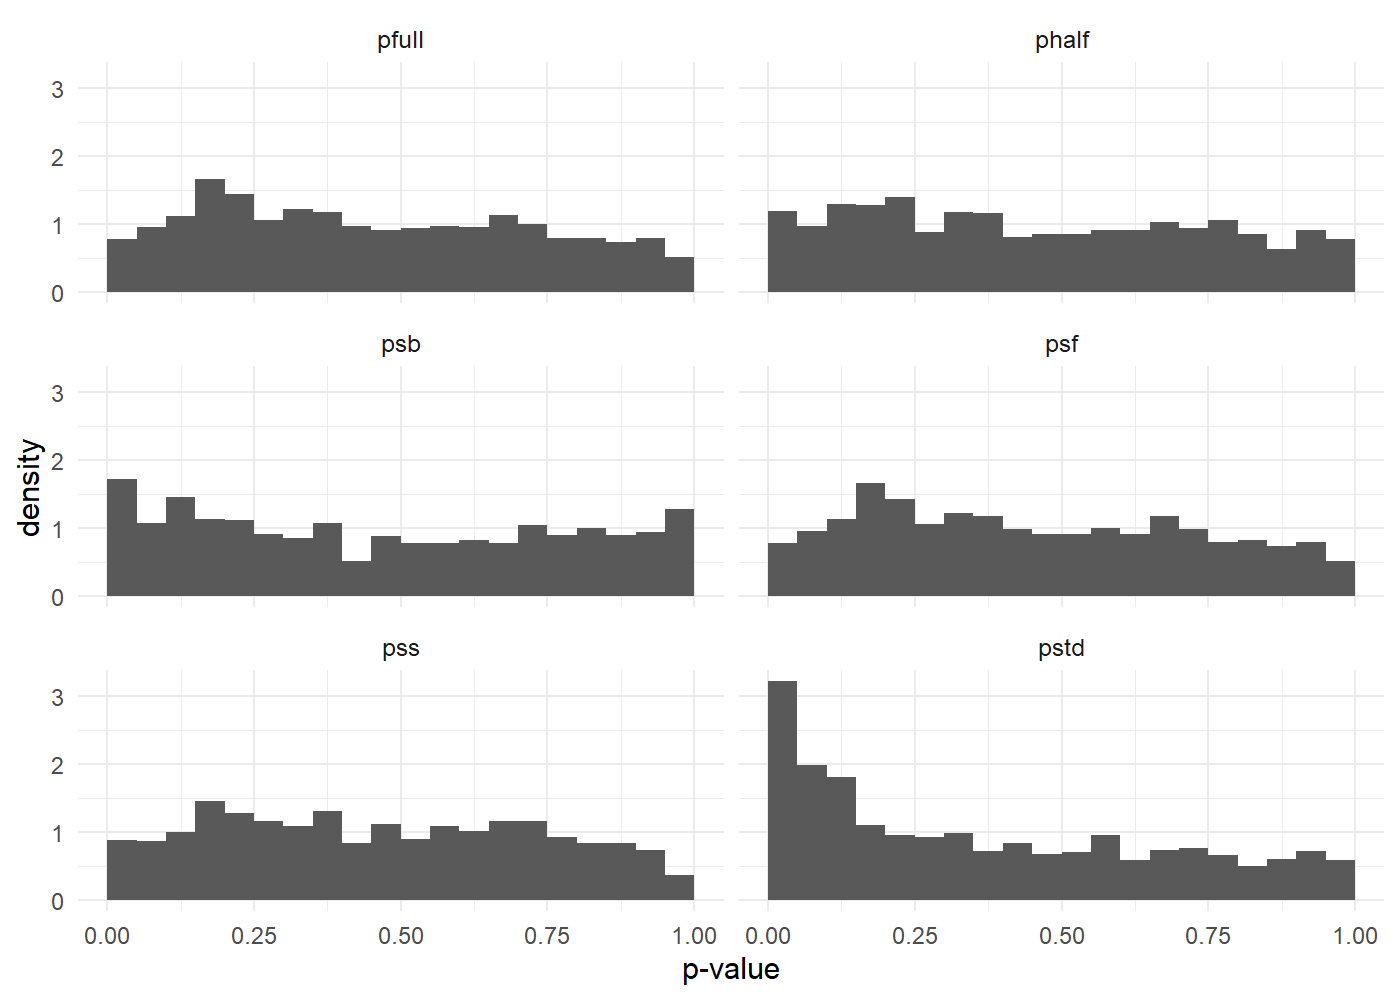
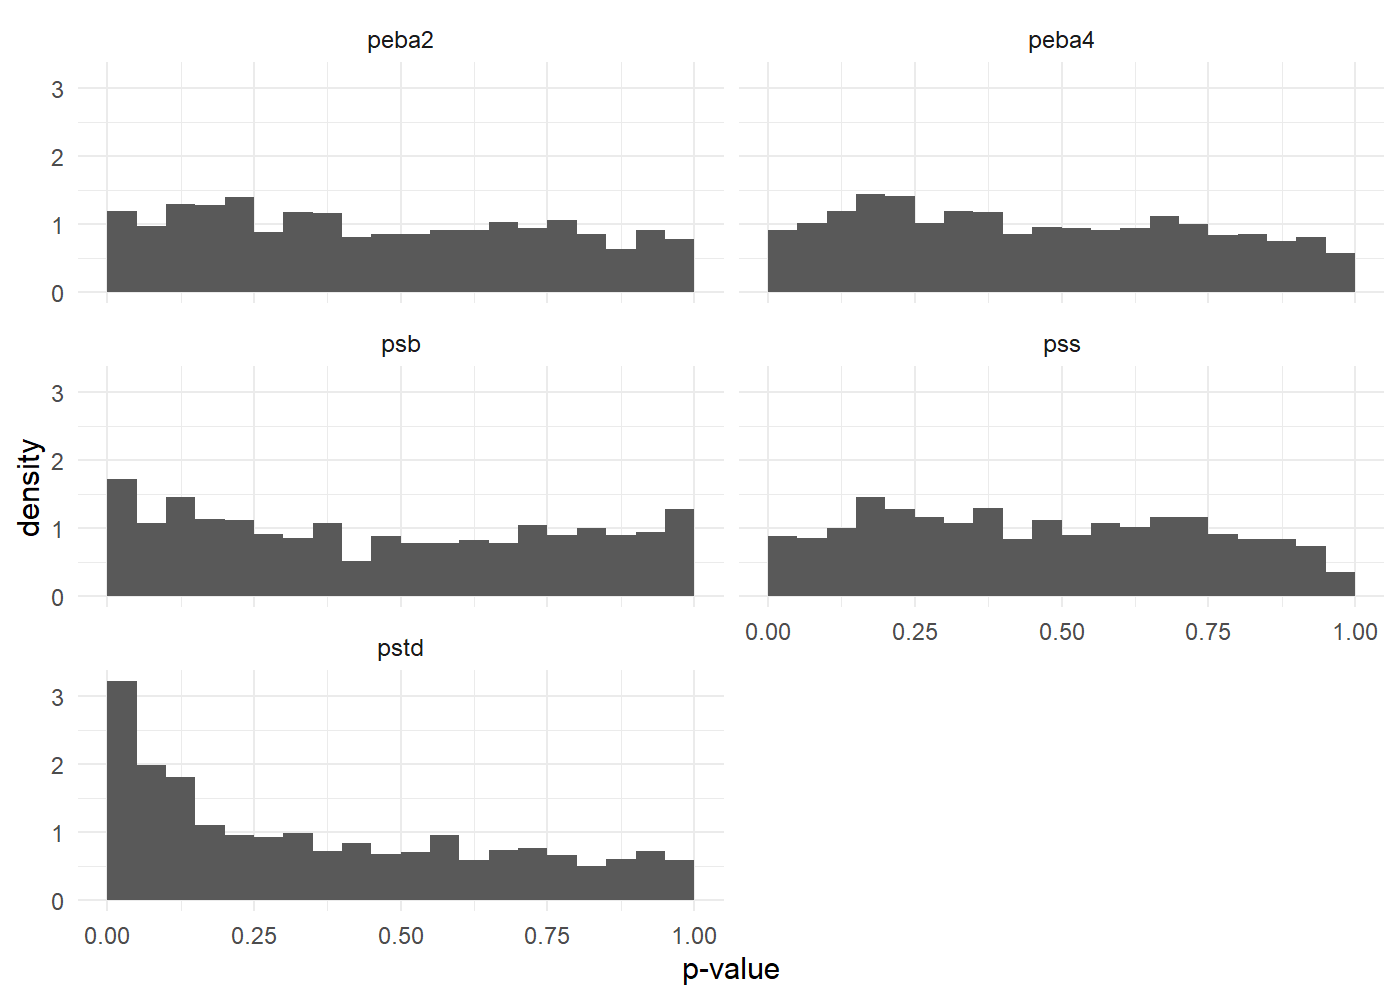
:book: Update readme.

diff --git a/README.md b/README.md
@@ -34,8 +34,8 @@ model <- "A =~ A1+A2+A3+A4+A5;
 n <- 200
 object <- lavaan::sem(model, psych::bfi[1:n, 1:10], estimator = "MLM")
 pvalues(object)
-#>       pstd        psb      phalf      pfull        psf        pss 
-#> 0.01038449 0.03688981 0.05535394 0.06563318 0.06540780 0.06287764
+#>       pstd        psb        pss      peba2      peba4 
+#> 0.01038449 0.03688981 0.06287764 0.05535394 0.06184855
 ```
 
 You can find the best-performing *p*-values:
@@ -53,13 +53,18 @@ print(selector)
 
     #>                       distance  type     pvalue
     #> kolmogorov-smirnov 0.066729289   pss 0.06287764
-    #> anderson-darling   0.008451422 phalf 0.05535394
-    #> cramer-von mises   0.001686626 phalf 0.05535394
-    #> kullback-leibler   0.061154813 phalf 0.05535394
-    #> 0.05-distance      0.006000000   pss 0.06287764
+    #> anderson-darling   0.008451422 peba2 0.05535394
+    #> cramer-von mises   0.001686626 peba2 0.05535394
+    #> 0.05-distance      0.004000000 peba4 0.06184855
 
 ***Note:*** The `semselector` function is time-consuming. The example
-takes approximately 2 minutes to run on a 2.5Ghz computer.
+takes approximately 2 minutes to run on a 2.5Ghz computer. You should
+use the following code for parallel processing.
+
+``` r
+library("future") 
+plan(multisession)
+```
 
 And plot the distribution of the *p*-values:
 
@@ -67,13 +72,6 @@ And plot the distribution of the *p*-values:
 library("ggplot2")
 theme_set(theme_minimal())
 plot(selector)
-#> Warning: The dot-dot notation (`..density..`) was deprecated in ggplot2 3.4.0.
-#> ℹ Please use `after_stat(density)` instead.
-#> ℹ The deprecated feature was likely used in the semselector package.
-#>   Please report the issue to the authors.
-#> This warning is displayed once every 8 hours.
-#> Call `lifecycle::last_lifecycle_warnings()` to see where this warning was
-#> generated.
 ```
 
 <img src="man/figures/README-plot_eval-1.png" width="750px" />
